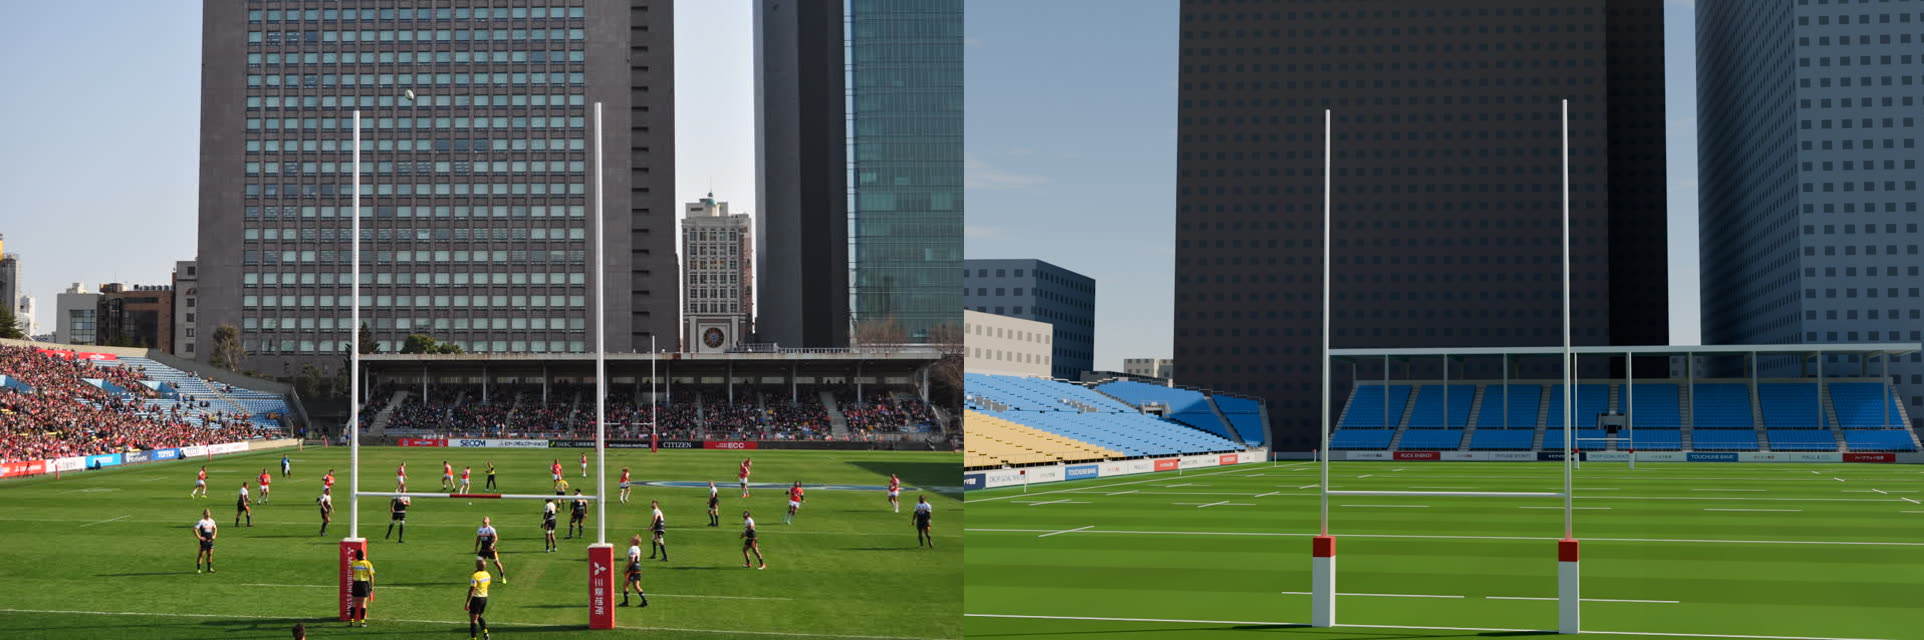
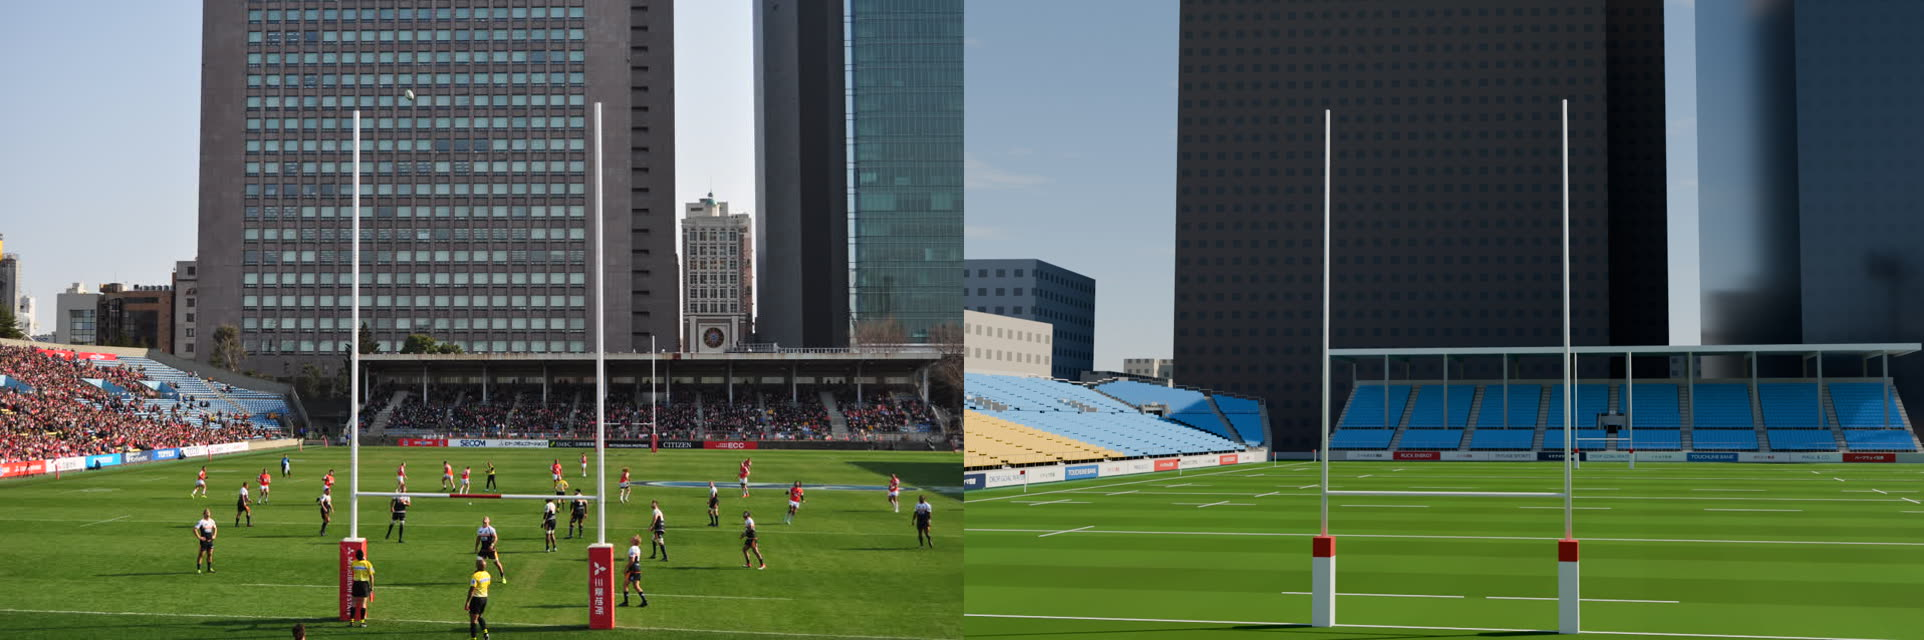
高さ 60 m 以上の塔をガラスの外壁にした(写真 05・02)

Changed region(s): [[0.8732, 0.0, 1.0, 0.7188], [0.499, 0.5625, 0.6549, 0.7188], [0.9044, 0.6875, 0.9356, 0.7188]]

diff --git a/scripts/cb/materials.py b/scripts/cb/materials.py
@@ -91,10 +91,11 @@ def _rainbow(name, base, night=1.1):
     return build
 
 
-def _house_wall(name, color):
-    """家やマンションの壁。窓の格子を描き、夜は 3 割ほどの窓に明かりがともる。"""
+def _house_wall(name, color, rough=0.9, metal=0.0, spec=0.5):
+    """家やマンションの壁。窓の格子を描き、夜は 3 割ほどの窓に明かりがともる。
+    rough を小さくするとガラスの外壁(空を映す)。"""
     def build():
-        m = _principled(name, color, rough=0.9)
+        m = _principled(name, color, rough=rough, metal=metal, spec=spec)
         nt = m.node_tree
         N, L = nt.nodes, nt.links
         b = N.get("Principled BSDF")
@@ -439,6 +440,9 @@ _builders = {
     "office_b": _house_wall("office_b", srgb(120, 132, 146)),
     "office_c": _house_wall("office_c", srgb(200, 190, 172)),
     "office_d": _house_wall("office_d", srgb(92, 84, 80)),
+    # 高層のガラスの外壁(写真 05 の青山OM-SQUARE、写真 02 の左の塔): 暗い青緑のガラス、空を映す
+    "office_glass": _house_wall("office_glass", srgb(58, 78, 88), rough=0.12, metal=0.35, spec=0.8),
+    "office_glass2": _house_wall("office_glass2", srgb(70, 74, 82), rough=0.18, metal=0.25, spec=0.7),
     "roof_flat_a": _noisy("roof_flat_a", srgb(150, 150, 148), 0.9, scale=0.3, amount=0.15),
     "roof_flat_b": _noisy("roof_flat_b", srgb(118, 122, 124), 0.9, scale=0.3, amount=0.15),
     "court": _noisy("court", srgb(172, 154, 124), 0.85, scale=0.5, amount=0.08),   # 砂入り人工芝(空中写真の神宮外苑のテニスコートは明るいベージュ)

diff --git a/scripts/cb/exterior.py b/scripts/cb/exterior.py
@@ -172,6 +172,9 @@ def _buildings(S, c):
         r = _h01(b["id"])
         if b["name"] == "伊藤忠商事東京本社ビル":
             wall = M.get("office_d")
+        elif h >= 60:
+            # 高さ 60 m 以上の塔はガラスの外壁(青山の高層は 1990 年代以降のガラス張りが多い。写真 05・02)
+            wall = M.get(("office_glass", "office_glass2")[int(r * 2) % 2])
         elif h > 40:
             wall = M.get(("office_a", "office_b", "office_c")[int(r * 3) % 3])
         else:

diff --git a/PROGRESS.md b/PROGRESS.md
@@ -41,6 +41,7 @@
 | 00:36 | 北西の照明塔: 比較 04・01 の解いたカメラからの 2 本の向きの交点へ((80, 66) 33 m → (75.1, 43.9) 30.3 m)。南西も同じ角の位置へ((−81.5, 44) 31 m)。00:32 の南西の位置は取り消した | 良くなった。比較 01・02・04 の重ね絵で 3 基とも写真の塔と 1 本に重なる。4 基とも約 31 m で揃った |
 | 00:37 | ゲート番号: 出入口の白い札に 1〜21(正面入場口から反時計回り。西 1〜7、南 8、東 9〜17、北 18〜21)を入れた(`gate_nos`) | 良くなった(近くの角度 `vom_close` で読める) |
 | 00:41 | テニスコート(OSM の 32 面)の色を緑から砂入り人工芝の砂色へ(空中写真の神宮外苑のテニスコートは (191,185,172) の明るいベージュ) | 良くなった。空からの角度でバックスタンドの北東が空中写真に近い |
+| 00:43 | 高さ 60 m 以上の塔を暗い青緑のガラスの外壁にした(写真 05 の青山OM-SQUARE、写真 02 の左の塔。前は白っぽい格子) | 良くなった。比較 05 の右の塔が写真の黒とガラスの塔に近い。空からの角度も落ち着いた |
 
 自分で決めたこと:
 - 角のブロックの向きは 60 度、折れ目は |X| = 64.8(推定)。62.8 だと比較 02 の撮影位置で段が高すぎたので外へ 2 m ずらした。
@@ -53,6 +54,7 @@
 - 座席の色は近くの写真(02、Rugby2)に合わせた。遠くの写真 03 では観客で席が覆われて暗く見えるので、色合わせには使わなかった。
 - 正面入場口の門の施設名は再現した(plan.md の決まり: 施設名は再現してよい)。開口 10 m は梁の文字 13 字の並びと写真の比率から。
 - 南西の照明塔は写真が 1 枚しかないので、向きの線の上で北西と同じ「メインの端とゴール裏のスタンドのあいだの角」に置いた。空中写真の影らしい帯(X −80〜−92、Y 50〜54)はビルの影の可能性もあり採らなかった。
+- 高さ 60 m 以上の塔は一律にガラスの外壁にした(1 棟ずつの外壁は調べていない)。伊藤忠ビルだけは写真 05 のとおり暗い石と窓の格子。
 - 看板は前の壁の面だけにし、白地を多めにした(写真 03・05)。社名はラグビーの言葉と外苑・青山の言葉から作った架空のもの。
 
 ## わかっている問題
